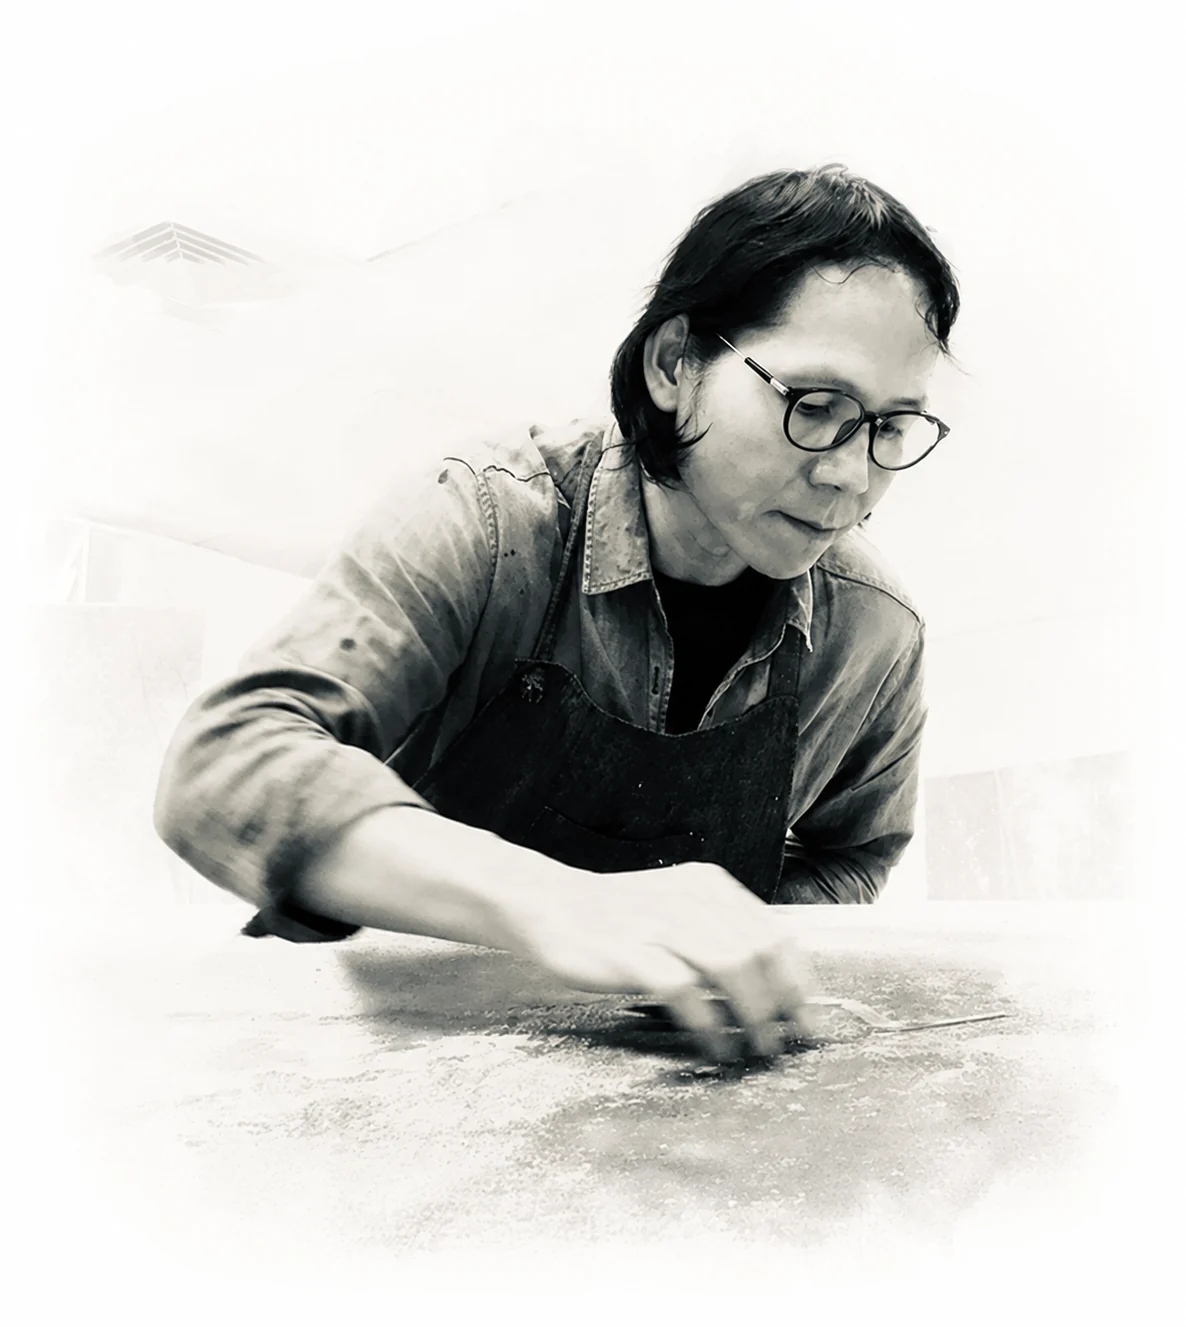
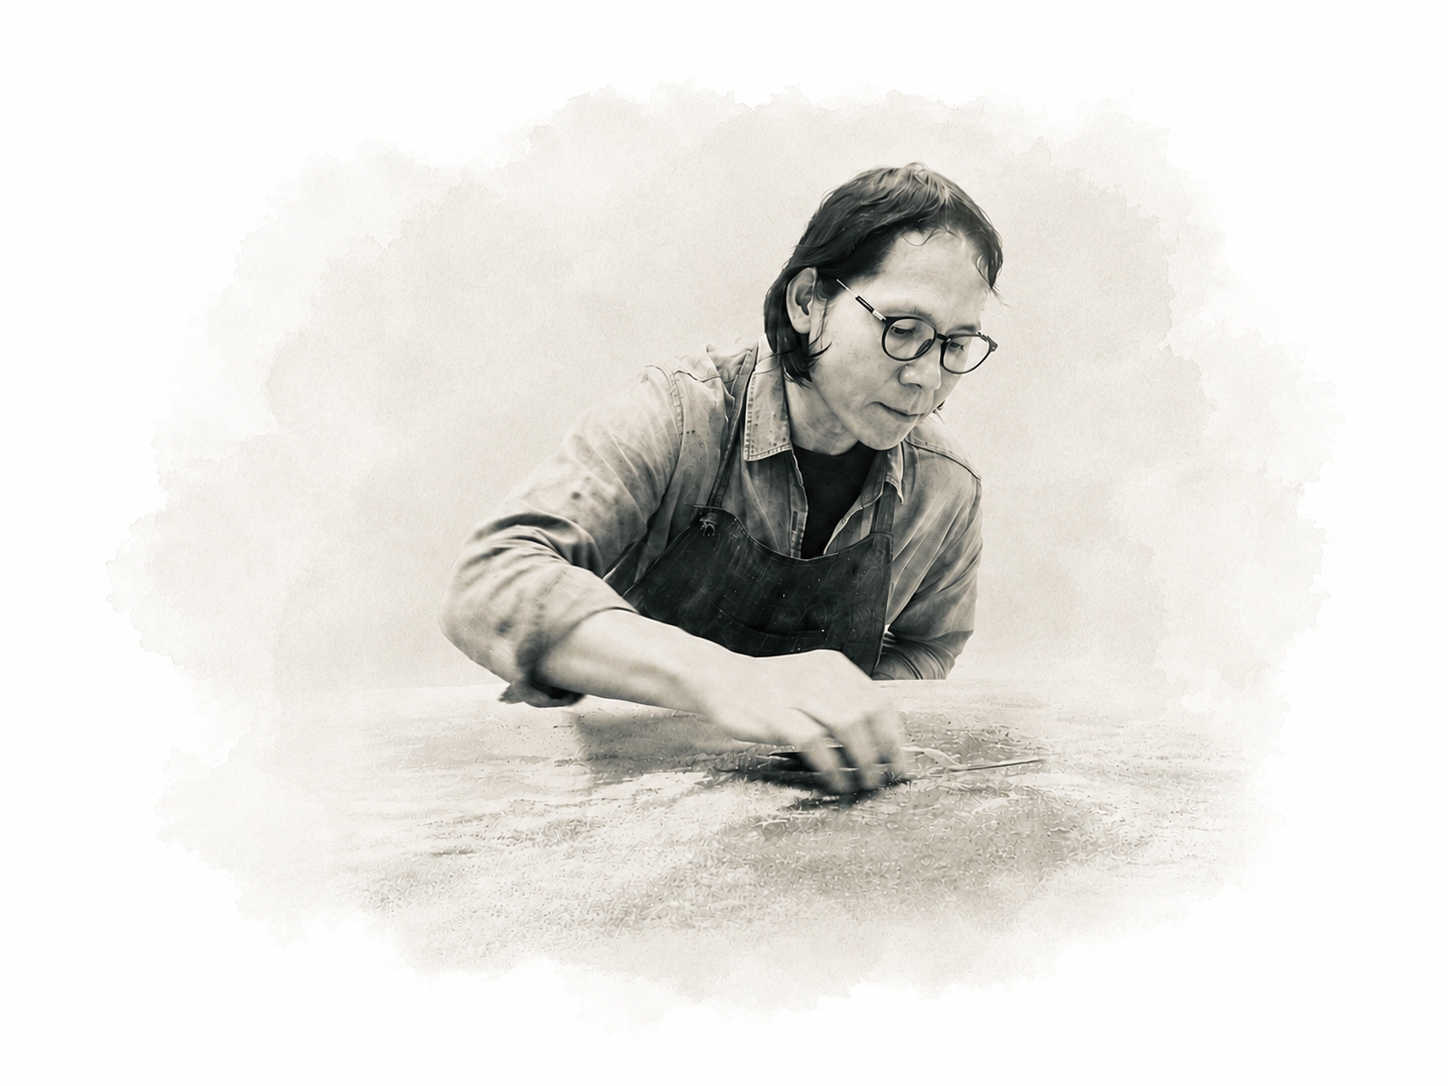
Improve exhibition selection and artwork card metadata

diff --git a/static/css/styles.css b/static/css/styles.css
@@ -107,7 +107,7 @@ a { color: inherit; }
 
 .page-hero { min-height: 440px; display: grid; grid-template-columns: .9fr 1.35fr; align-items: stretch; border: 1px solid var(--line); background: rgba(249,247,243,.86); overflow: hidden; }
 .page-hero > div { align-self: center; padding: clamp(44px, 7vw, 100px); }
-.page-hero h1 { margin: 0 0 24px; font-size: clamp(3rem, 7vw, 6.5rem); font-weight: 400; line-height: .95; letter-spacing: .08em; text-transform: uppercase; }
+.page-hero h1 { margin: 0 0 24px; font-size: clamp(3rem, 7vw, 6.5rem); font-weight: 400; line-height: .95; letter-spacing: .08em; text-transform: uppercase; white-space: nowrap; }
 .page-hero p:not(.section-kicker) { max-width: 520px; margin: 0; color: #5e5952; line-height: 1.9; letter-spacing: .07em; }
 .page-hero > img { width: 100%; height: 100%; min-height: 440px; object-fit: cover; }
 .works-hero > img { object-fit: contain; mix-blend-mode: multiply; padding: 20px 5vw 0; }
@@ -160,13 +160,18 @@ a { color: inherit; }
 .work-card[hidden] { display: none; }
 .work-card a { display: block; text-decoration: none; transition: transform .35s cubic-bezier(.22, 1, .36, 1); }
 .work-card a:hover { transform: translateY(-7px); }
-.work-image { aspect-ratio: 4 / 3; display: grid; place-items: center; overflow: hidden; background: #ebe6dd; }
-.work-image img { width: 100%; height: 100%; padding: 14px; object-fit: contain; transition: transform .5s ease; }
-.work-card a:hover .work-image img { transform: scale(1.018); }
-.work-meta { display: grid; grid-template-columns: 1fr auto; gap: 16px; padding-top: 16px; }
-.work-meta h2 { margin: 0; font-size: clamp(1.2rem, 2.2vw, 1.65rem); font-weight: 400; }
-.work-meta h2 small { display: block; margin-top: 5px; color: var(--muted); font-size: .72rem; }
-.work-meta p { margin: 0; color: var(--muted); font-size: .78rem; line-height: 1.6; text-align: right; }
+.work-image { aspect-ratio: 4 / 3; display: grid; place-items: center; overflow: hidden; padding: 14px; background: #ebe6dd; }
+.work-image img { width: 100%; height: 100%; object-fit: contain; object-position: center; transition: opacity .3s ease; }
+.work-card a:hover .work-image img { opacity: .94; }
+.work-meta { display: grid; gap: 4px; padding-top: 13px; }
+.work-primary { display: grid; grid-template-columns: minmax(0, 1fr) auto; gap: 16px; align-items: baseline; }
+.work-meta h2 { min-width: 0; margin: 0; overflow: hidden; font-size: clamp(1rem, 1.55vw, 1.24rem); font-weight: 400; line-height: 1.35; text-overflow: ellipsis; white-space: nowrap; }
+.work-number { margin-right: .48em; font-variant-numeric: tabular-nums; }
+.work-primary time { color: var(--ink); font-size: clamp(.9rem, 1.35vw, 1.08rem); font-variant-numeric: tabular-nums; }
+.work-title-en, .work-dimensions, .work-collection { margin: 0; line-height: 1.45; }
+.work-title-en { color: var(--muted); font-size: .72rem; }
+.work-dimensions { color: var(--ink); font-size: .88rem; }
+.work-collection { color: var(--accent); font-size: .9rem; }
 .empty-message { padding: 60px 0; text-align: center; }
 
 .work-detail { min-height: 720px; }
@@ -181,7 +186,7 @@ a { color: inherit; }
 .gallery-controls p { min-width: 52px; margin: 0; color: var(--muted); font-size: .78rem; text-align: center; }
 .gallery-controls button { width: 44px; height: 44px; border: 1px solid var(--line); border-radius: 50%; color: var(--ink); background: rgba(255,255,255,.62); font: inherit; cursor: pointer; transition: color .2s ease, background .2s ease; }
 .gallery-controls button:hover, .gallery-controls button:focus-visible { color: white; background: #39342e; }
-.work-detail-copy h1 { margin: 0; font-size: clamp(2.7rem, 5vw, 5.4rem); font-weight: 400; line-height: 1.05; }
+.work-detail-copy h1 { margin: 0; font-size: clamp(2.7rem, 5vw, 5.4rem); font-weight: 400; line-height: 1.05; white-space: nowrap; }
 .detail-title-en { margin: 10px 0 35px; color: var(--muted); font-size: 1.2rem; }
 .work-detail dl { margin: 0; border-block: 1px solid var(--line); }
 .work-detail dl div { display: grid; grid-template-columns: 75px 1fr; gap: 18px; padding: 14px 0; border-bottom: 1px solid var(--line); }
@@ -210,7 +215,7 @@ a { color: inherit; }
 .exhibition-row p { margin: 0; color: var(--muted); font-size: .85rem; }
 
 .exhibition-detail-hero { display: grid; grid-template-columns: minmax(280px, .65fr) minmax(0, 1.45fr); gap: clamp(36px, 6vw, 90px); align-items: center; }
-.exhibition-detail-intro h1 { margin: 0; font-size: clamp(2.7rem, 5vw, 5.5rem); font-weight: 400; line-height: 1; }
+.exhibition-detail-intro h1 { margin: 0; font-size: clamp(2.7rem, 5vw, 5.5rem); font-weight: 400; line-height: 1; white-space: nowrap; }
 .exhibition-title-en { margin: 12px 0 0; color: var(--accent); font-size: 1rem; font-style: italic; }
 .exhibition-subtitle { color: var(--ink); line-height: 1.7; }
 .exhibition-detail-intro > p:not(.section-kicker, .exhibition-title-en) { color: var(--muted); line-height: 1.7; }
@@ -230,9 +235,8 @@ a { color: inherit; }
 .exhibition-photo-grid figure:hover img { transform: scale(1.018); }
 .exhibition-selected { border-top: 1px solid var(--line); }
 .exhibition-works-grid { display: grid; grid-template-columns: repeat(4, minmax(0, 1fr)); gap: clamp(24px, 3vw, 42px); }
-.exhibition-works-grid .work-image { aspect-ratio: 1 / 1; }
+.exhibition-works-grid .work-image { aspect-ratio: 4 / 3; }
 .exhibition-works-grid .work-meta { grid-template-columns: 1fr; }
-.exhibition-works-grid .work-meta p { text-align: left; }
 .exhibition-information { display: grid; grid-template-columns: .55fr 1.45fr; gap: clamp(35px, 7vw, 110px); }
 .exhibition-information dl { margin: 0; border-top: 1px solid var(--line); }
 .exhibition-information dl div { display: grid; grid-template-columns: 120px 1fr; gap: 22px; padding: 17px 0; border-bottom: 1px solid var(--line); }
@@ -250,7 +254,7 @@ a { color: inherit; }
 .class-hero img { grid-area: 1 / 1; width: 100%; height: 520px; object-fit: cover; filter: sepia(.12) saturate(.72) contrast(.9); }
 .class-hero::after { content: ""; grid-area: 1 / 1; background: linear-gradient(90deg, rgba(245,241,234,.98) 0 36%, rgba(245,241,234,.58) 54%, transparent 75%); }
 .class-hero-copy { grid-area: 1 / 1; z-index: 1; align-self: center; width: min(560px, 90%); margin-left: clamp(24px, 7vw, 112px); }
-.class-hero h1 { margin: 0 0 22px; font-size: clamp(3rem, 6vw, 6rem); font-weight: 400; }
+.class-hero h1 { margin: 0 0 22px; font-size: clamp(3rem, 6vw, 6rem); font-weight: 400; white-space: nowrap; }
 .class-hero-copy > p:last-child { line-height: 1.9; letter-spacing: .08em; }
 .course-layout { display: grid; grid-template-columns: 1fr .85fr 1fr; gap: clamp(30px, 5vw, 74px); align-items: center; }
 .course-info dl { margin: 28px 0 0; border-top: 1px solid var(--line); }
@@ -298,7 +302,7 @@ a { color: inherit; }
 .contact-page::after { content: ""; position: absolute; right: -12%; bottom: -34%; width: 68%; height: 70%; border-radius: 50%; background: radial-gradient(ellipse, rgba(140,121,99,.13), transparent 67%); pointer-events: none; }
 .contact-intro { display: grid; grid-template-columns: 260px 1fr; gap: 40px; align-items: end; }
 .contact-intro .section-kicker { grid-column: 1; }
-.contact-intro h1 { grid-column: 1; margin: 0; font-size: clamp(3rem, 7vw, 6.5rem); font-weight: 400; line-height: .95; }
+.contact-intro h1 { grid-column: 1; margin: 0; font-size: clamp(3rem, 7vw, 6.5rem); font-weight: 400; line-height: .95; white-space: nowrap; }
 .contact-intro > p:last-child { grid-column: 2; grid-row: 1 / 3; max-width: 520px; margin: 0; align-self: end; line-height: 1.9; letter-spacing: .08em; }
 .contact-links { display: grid; grid-template-columns: repeat(2, minmax(0, 1fr)); gap: 24px; margin-top: 70px; }
 .contact-links a { display: grid; grid-template-columns: 1fr auto; padding: 26px 0; border-top: 1px solid var(--line); text-decoration: none; }
@@ -414,6 +418,8 @@ a { color: inherit; }
   .catalog-tools { grid-template-columns: 1fr; }
   .result-count { margin: 0; }
   .works-grid { grid-template-columns: 1fr; }
+  .work-meta h2 { font-size: 1.08rem; }
+  .work-primary time { font-size: .96rem; }
   .work-detail-grid { grid-template-columns: 1fr; }
   .work-detail-copy { order: -1; }
   .current-exhibition-card { grid-template-columns: 1fr; gap: 8px; padding: 22px; }

diff --git a/tools/content_manager.py b/tools/content_manager.py
@@ -310,6 +310,8 @@ class ExhibitionForm(ScrollableForm):
     def __init__(self, parent: ttk.Notebook, app: "ContentManager") -> None:
         super().__init__(parent)
         self.app = app
+        self.current_selection = StringVar()
+        self.current_choice_keys: dict[str, str] = {}
         self.values = {
             "slug": StringVar(),
             "year": StringVar(value=str(date.today().year)),
@@ -332,6 +334,33 @@ class ExhibitionForm(ScrollableForm):
             "新增展覽",
             "填寫展覽資訊、選擇主視覺與現場照片；儲存後會同時更新展覽列表與詳細頁。",
         )
+        ttk.Label(self.body, text="指定當期展覽", style="FieldLabel.TLabel").grid(
+            row=fields.row, column=0, sticky="nw", padx=(0, 18), pady=(8, 3)
+        )
+        current_box = ttk.Frame(self.body)
+        current_box.grid(row=fields.row, column=1, columnspan=2, sticky="ew", pady=(4, 3))
+        current_box.columnconfigure(0, weight=1)
+        self.current_selector = ttk.Combobox(
+            current_box,
+            textvariable=self.current_selection,
+            state="readonly",
+        )
+        self.current_selector.grid(row=0, column=0, sticky="ew")
+        ttk.Button(
+            current_box,
+            text="設為當期",
+            command=self.set_current_exhibition,
+        ).grid(row=0, column=1, padx=(10, 0))
+        fields.row += 1
+        ttk.Label(
+            self.body,
+            text="可從所有既有展覽中選擇；設定後會自動取消前一個當期展覽。",
+            style="Hint.TLabel",
+            wraplength=580,
+        ).grid(row=fields.row, column=1, columnspan=2, sticky="w", pady=(0, 16))
+        fields.row += 1
+        self.refresh_current_choices()
+
         fields.entry("網址代稱", self.values["slug"], hint="可留白自動產生；若自行填寫，請使用英文小寫、數字與連字號。")
         fields.entry("年份", self.values["year"], required=True)
         fields.entry("展覽名稱", self.values["title_zh"], required=True)
@@ -472,7 +501,53 @@ class ExhibitionForm(ScrollableForm):
             encoding="utf-8",
         )
         self.app.finish_save(f"展覽《{title_zh}》")
+        self.refresh_current_choices()
         self.reset()
+
+    def refresh_current_choices(self) -> None:
+        summary_path = ROOT / "content" / "exhibitions.json"
+        summaries = json.loads(summary_path.read_text(encoding="utf-8"))
+        self.current_choice_keys.clear()
+        selected_label = ""
+        labels: list[str] = []
+        for index, item in enumerate(summaries):
+            base_label = f'{item.get("year", "")}｜{item.get("title", "")}｜{item.get("venue", "")}'
+            label = f"{base_label}（目前）" if item.get("current") else base_label
+            if label in self.current_choice_keys:
+                label = f"{label} #{index + 1}"
+            key = exhibition_key(item)
+            labels.append(label)
+            self.current_choice_keys[label] = key
+            if item.get("current"):
+                selected_label = label
+        self.current_selector.configure(values=labels)
+        self.current_selection.set(selected_label or (labels[0] if labels else ""))
+
+    def set_current_exhibition(self) -> None:
+        label = self.current_selection.get()
+        selected_key = self.current_choice_keys.get(label)
+        if not selected_key:
+            messagebox.showwarning("尚未選擇展覽", "請先從清單選擇一個當期展覽。")
+            return
+
+        summary_path = ROOT / "content" / "exhibitions.json"
+        summaries = json.loads(summary_path.read_text(encoding="utf-8"))
+        selected_title = ""
+        for item in summaries:
+            item.pop("current", None)
+            if exhibition_key(item) == selected_key:
+                item["current"] = True
+                selected_title = str(item.get("title", ""))
+        if not selected_title:
+            messagebox.showerror("設定失敗", "找不到所選展覽，請重新開啟管理介面後再試一次。")
+            return
+
+        summary_path.write_text(
+            json.dumps(summaries, ensure_ascii=False, indent=2) + "\n",
+            encoding="utf-8",
+        )
+        self.refresh_current_choices()
+        self.app.finish_save(f"當期展覽《{selected_title}》")
 
     def reset(self) -> None:
         for variable in self.values.values():
@@ -708,6 +783,20 @@ class ContentManager(Tk):
 
 def generated_slug(prefix: str) -> str:
     return f"{prefix}-{datetime.now():%Y%m%d-%H%M%S}"
+
+
+def exhibition_key(item: dict) -> str:
+    """Return a stable identifier for both detailed and legacy exhibition rows."""
+    slug = str(item.get("slug", "")).strip()
+    if slug:
+        return f"slug:{slug}"
+    legacy_parts = (
+        str(item.get("year", "")),
+        str(item.get("title", "")),
+        str(item.get("venue", "")),
+        str(item.get("city", "")),
+    )
+    return "legacy:" + "|".join(legacy_parts)
 
 
 def build_summary(report: build_site.BuildReport) -> str:

diff --git a/tools/build_site.py b/tools/build_site.py
@@ -285,20 +285,29 @@ def work_card(work: dict[str, Any], root: str) -> str:
             "year",
             "medium_zh",
             "dimensions",
+            "collection",
         )
     ).lower()
     title_en = (
-        f'<small>{escape(work["title_en"])}</small>'
+        f'<p class="work-title-en">{escape(work["title_en"])}</p>'
         if work.get("title_en")
+        else ""
+    )
+    collection = (
+        f'<p class="work-collection">{escape(work["collection"])}</p>'
+        if work.get("collection")
         else ""
     )
     return (
         f'<article class="work-card" data-year="{escape(work["year"])}" '
         f'data-search="{escape(search)}"><a href="{root}works/{escape(work["slug"])}/index.html">'
         f'<div class="work-image">{responsive_image(work["image"], work["alt"], root, CARD_IMAGE_SIZES)}</div>'
-        f'<div class="work-meta"><h2>{escape(work["title_zh"])}{title_en}</h2>'
-        f'<p>{escape(work.get("catalog_number", ""))}<br>{escape(work["year"])}<br>'
-        f'{escape(work["dimensions"])}</p></div></a></article>'
+        '<div class="work-meta"><div class="work-primary">'
+        f'<h2><span class="work-number">{escape(work.get("catalog_number", ""))}</span>'
+        f'<span class="work-title">{escape(work["title_zh"])}</span></h2>'
+        f'<time datetime="{escape(work["year"])}">{escape(work["year"])}</time></div>'
+        f'{title_en}<p class="work-dimensions">{escape(work["dimensions"])}</p>'
+        f'{collection}</div></a></article>'
     )
 
 

diff --git a/README.md b/README.md
@@ -19,7 +19,7 @@ python tools/content_manager.py
 管理介面有三個分頁：
 
 - **新增作品**：填寫作品編號、名稱、年份、媒材與尺寸；主圖及多張局部圖都可用按鈕選擇，作品說明可稍後再補。
-- **新增展覽**：填寫展覽名稱、展期與地點，選擇主視覺、海報、展場照片，並勾選網站既有作品；可直接設為當期展覽。
+- **新增展覽**：填寫展覽名稱、展期與地點，選擇主視覺、海報、展場照片，並勾選網站既有作品；也可從既有展覽清單指定唯一的當期展覽。
 - **新增文章**：填寫標題、分類、摘要與正文；段落之間空一行即可。
 - **網站維護**：重新最佳化全部圖片、產生網站、開啟本機預覽，或打開資料夾。
 
